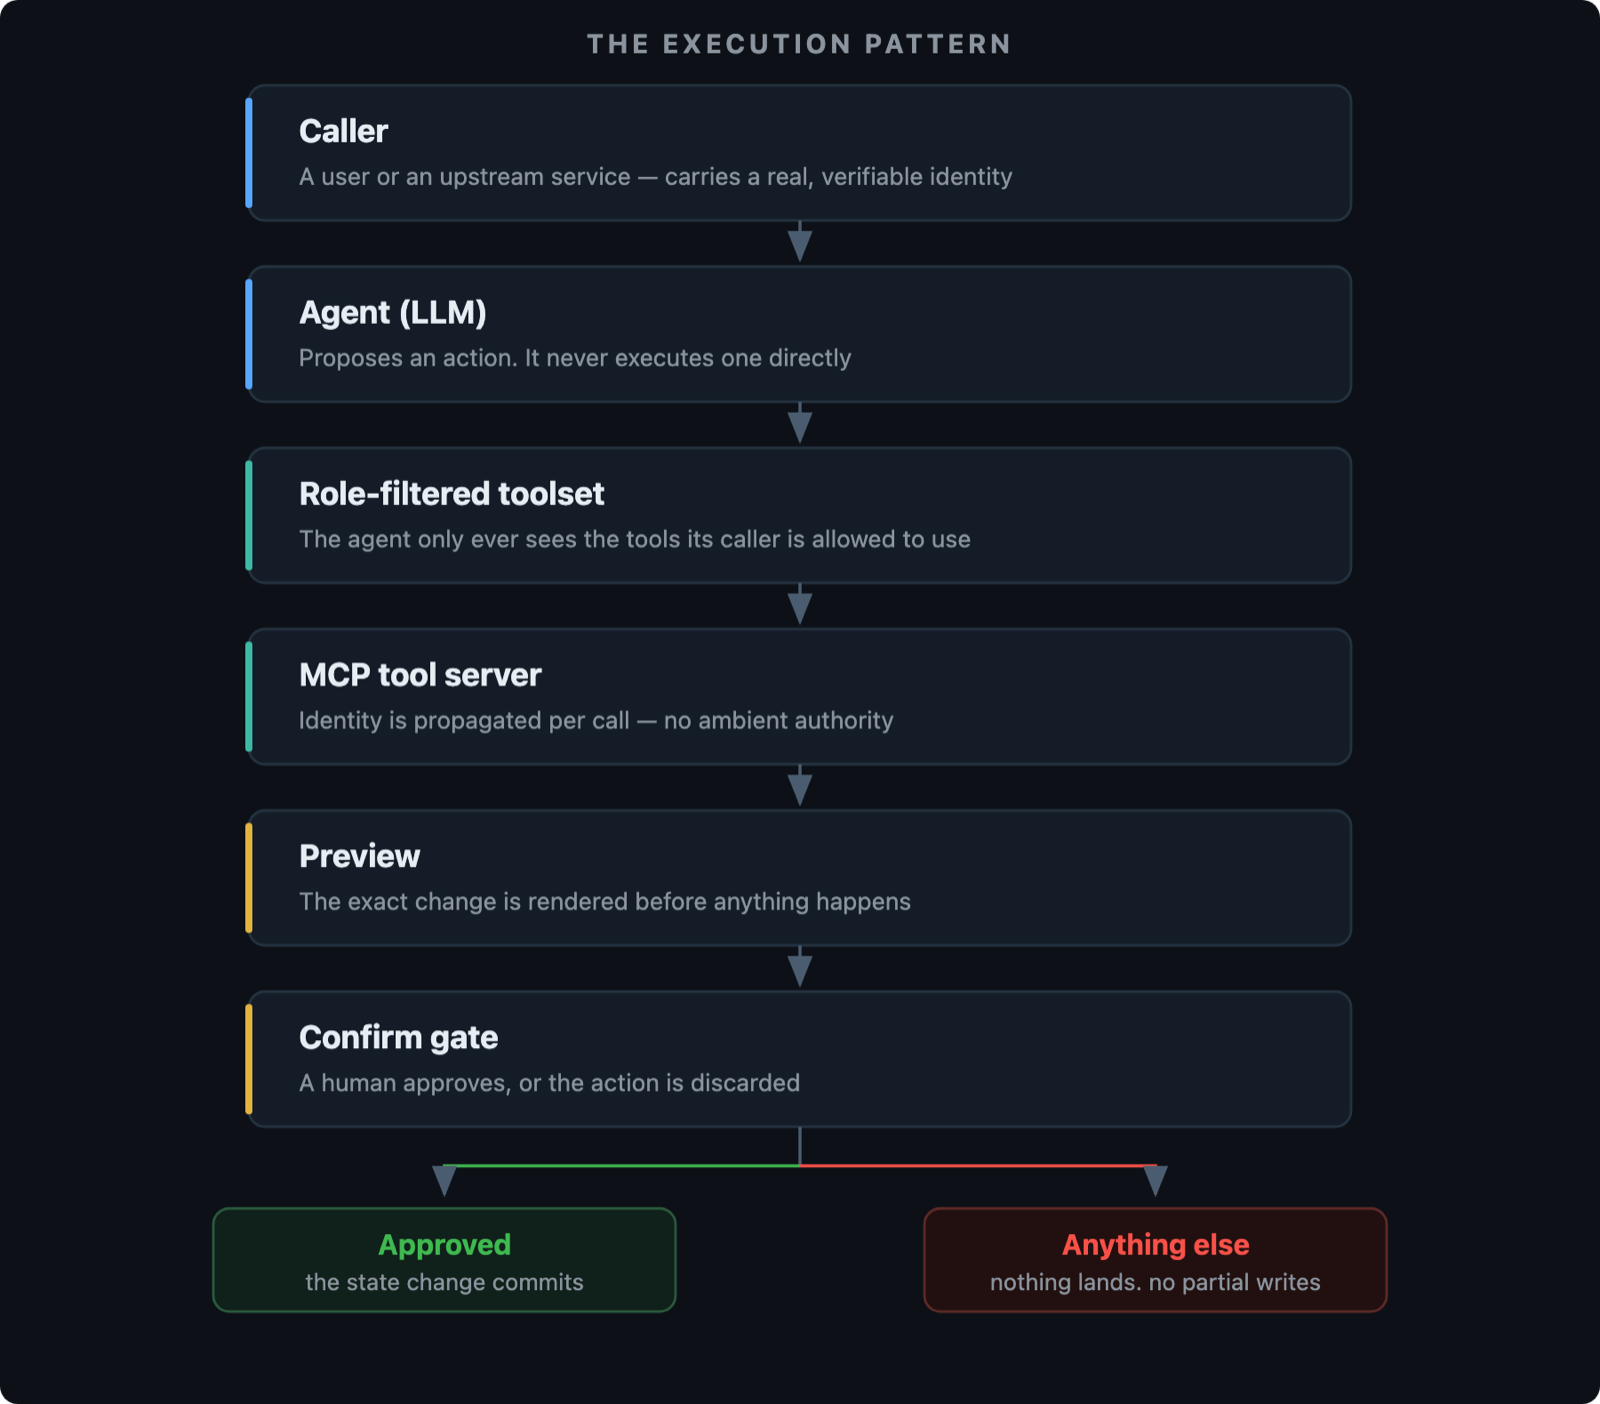
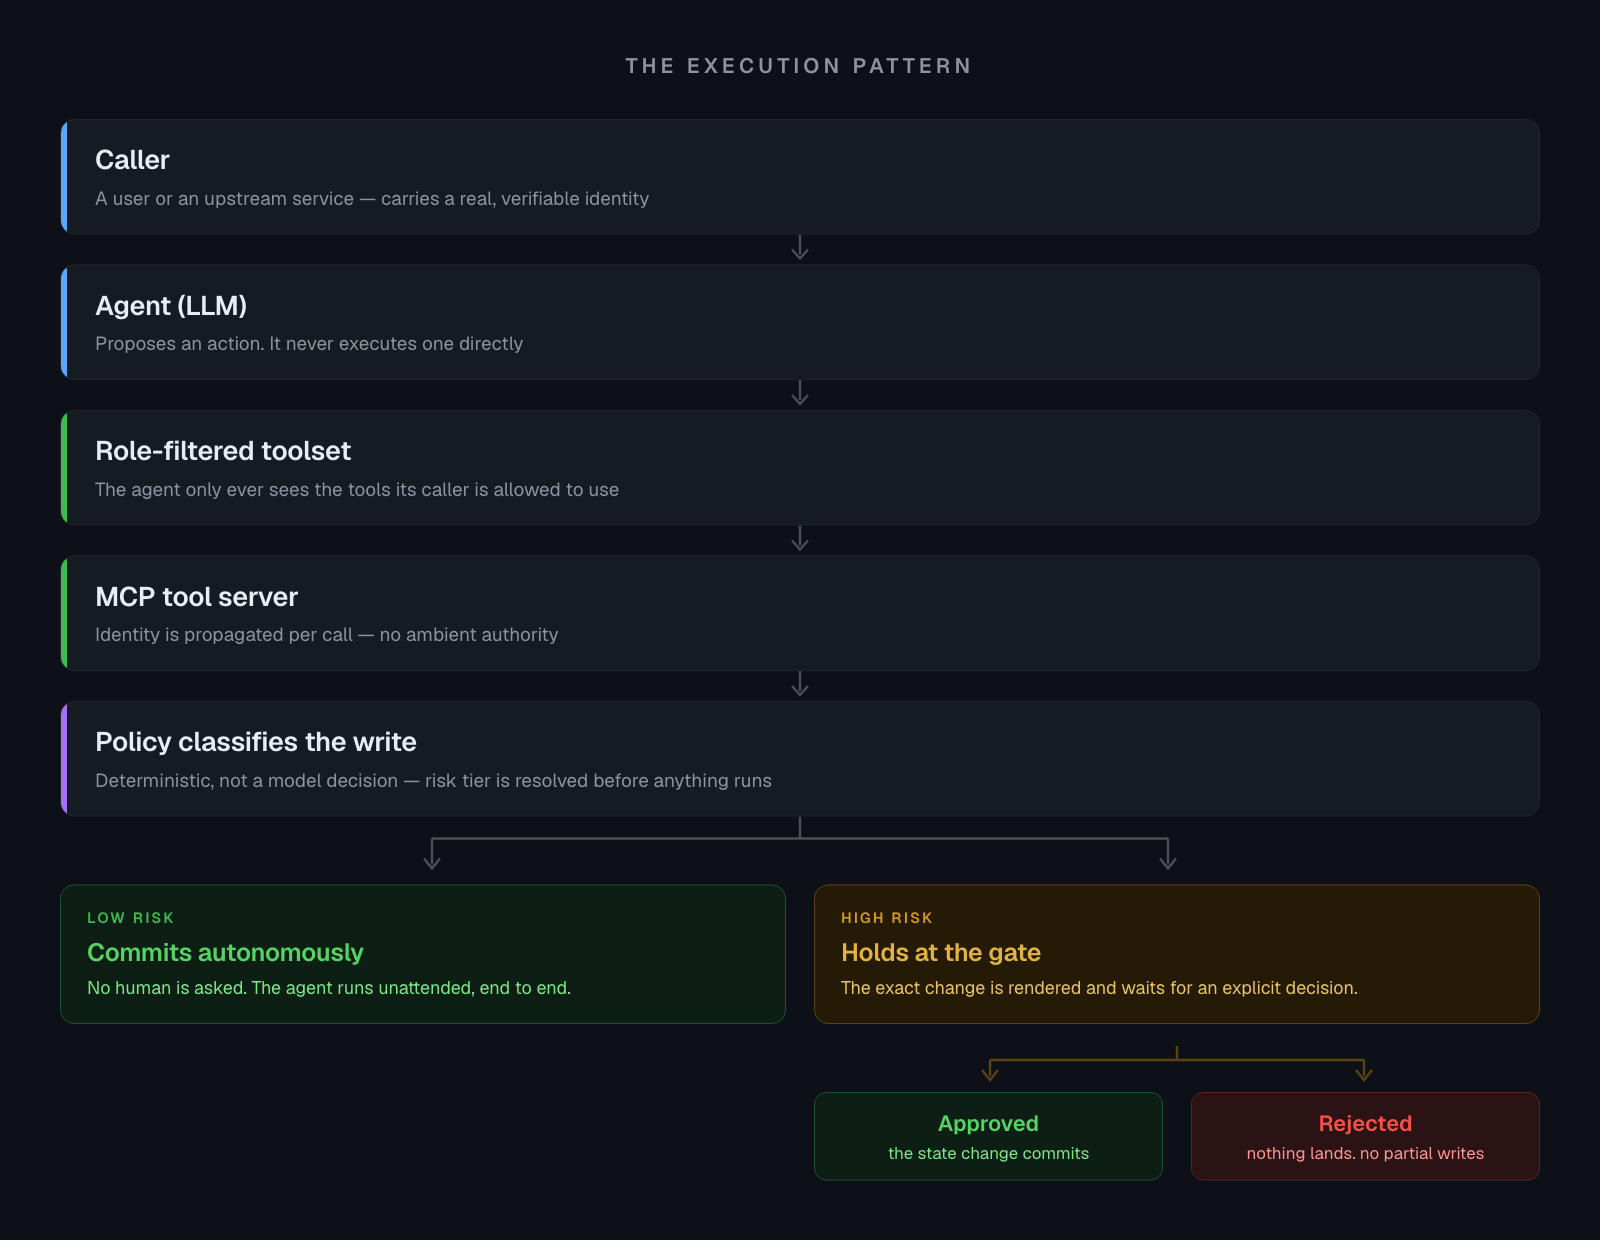
Correct the execution pattern, and lead with the portfolio
Two changes.

The diagram and the prose still described a preview-then-confirm gate
where every state change waits for a human. That is the opposite of the
claim the portfolio now leads with — "Autonomous by default. Gated where
it counts." — and it undersells the work: an agent that stops for
everything is not running unattended, it is a form with extra steps.

Redrawn around the deterministic policy. The chain is unchanged up to the
tool server; the gate is now a policy step that classifies each write and
splits. Low risk commits autonomously with nobody asked. High risk holds,
and only that branch reaches approve or reject. The connector on the
outcomes is there so they read as belonging to the high-risk path alone —
without it the correction undoes itself at a glance.

The typing hero said "Models propose. Deterministic code executes." That
describes every tool-calling agent ever built. The step that is actually
his is the policy deciding what commits, so it is now its own line.

Second: the badge row leads with the portfolio and drops the tenure badge.
A live site someone can open is worth more than a number that ages, and
this one goes stale in Oct 2027 either way.

diff --git a/README.md b/README.md
@@ -3,14 +3,14 @@
 </p>
 
 <p align="center">
-  <img src="https://readme-typing-svg.demolab.com?font=Fira+Code&weight=600&size=24&duration=3600&pause=900&color=58A6FF&center=true&vCenter=true&width=850&height=55&lines=Models+propose.+Deterministic+code+executes.;MCP+tool+servers+%C2%B7+role-filtered+toolsets;Google+ADK+%C2%B7+Vertex+AI+%C2%B7+Gemini+%C2%B7+BigQuery+vector+search" alt="Models propose. Deterministic code executes."/>
+  <img src="https://readme-typing-svg.demolab.com?font=Fira+Code&weight=600&size=24&duration=3600&pause=900&color=58A6FF&center=true&vCenter=true&width=850&height=55&lines=Models+propose.+Policy+decides+what+commits.;Deterministic+code+executes.;MCP+tool+servers+%C2%B7+role-filtered+toolsets;Google+ADK+%C2%B7+Vertex+AI+%C2%B7+Gemini+%C2%B7+BigQuery+vector+search" alt="Models propose. Deterministic code executes."/>
 </p>
 
 <p align="center">
+  <a href="https://danialaslam04.github.io"><img src="https://img.shields.io/badge/Portfolio-0A0A0B?style=for-the-badge&logo=googlechrome&logoColor=C6F135" alt="Portfolio"/></a>
   <a href="https://www.linkedin.com/in/danial04/"><img src="https://img.shields.io/badge/LinkedIn-0A66C2?style=for-the-badge&logo=linkedin&logoColor=white" alt="LinkedIn"/></a>
   <a href="mailto:danialaslam04@gmail.com"><img src="https://img.shields.io/badge/Email-EA4335?style=for-the-badge&logo=gmail&logoColor=white" alt="Email"/></a>
   <a href="assets/Muhammad-Danial-Aslam-Resume.pdf"><img src="https://img.shields.io/badge/Resume-3FB9A5?style=for-the-badge&logo=readdotcv&logoColor=white" alt="Resume (PDF)"/></a>
-  <img src="https://img.shields.io/badge/3_Years_Experience-2C5364?style=for-the-badge" alt="3 years experience"/>
 </p>
 
 ---
@@ -42,11 +42,11 @@ An **LLM pipeline that ingests delivery orders straight from email** — extract
 ## 🧩 &nbsp;How I Build Agents
 
 **Models propose. Deterministic code executes.** The same pattern across all three platforms —
-an agent can reason freely, but it can never reach past the boundary its caller was given, and no
-state changes without explicit approval:
+an agent can reason freely, but it can never reach past the boundary its caller was given, and a
+deterministic policy — not the model — decides which writes commit on their own and which stop:
 
 <p align="center">
-  <img src="assets/agent-pattern.png" width="100%" alt="Execution pattern: caller carries identity, the agent proposes, a role-filtered toolset limits what it can see, the MCP tool server propagates identity per call, and a preview-then-confirm gate means nothing lands without approval."/>
+  <img src="assets/agent-pattern.png" width="100%" alt="Execution pattern: the caller carries identity, the agent proposes but never executes, a role-filtered toolset limits what it can see, the MCP tool server propagates identity per call, and a deterministic policy classifies each write — low-risk writes commit autonomously while high-risk writes hold at a gate for an explicit approve or reject."/>
 </p>
 
 Underneath: **Vertex AI** and **Gemini** for inference, routed through **LiteLLM**; **BigQuery
